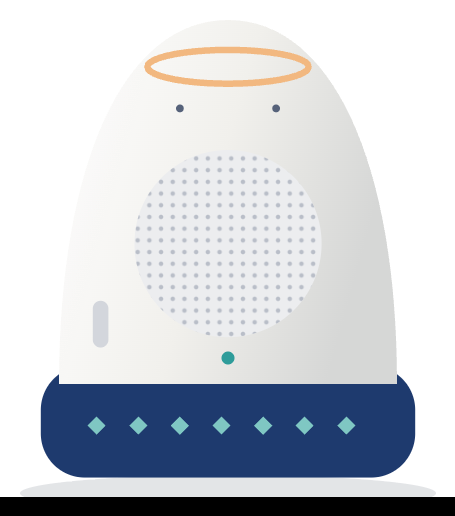
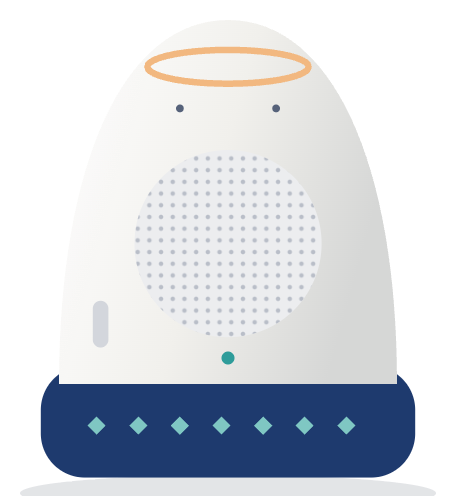
Story 4.1: hero section, plus a real device-photo bug fix
Landing.tsx -> Story.tsx, now renders just the new cinematic hero:
one headline, one sentence, one CTA that plays a cry and reveals a
CryPredictionPhone widget driven by the real predictReasons() (not
hard-coded numbers) so the on-screen probabilities are the same ones
/monitor would show. CryPredictionPhone is new and shared, meant to be
reused by the night-scene section and /kiosk later.

Also fixes a real asset bug found while reviewing hero screenshots at
this section's larger device size: device-hero.png had a solid black
19px band (rows 497-515) left over from the original background
extraction, invisible at smaller placements but exposed here. Cropped
the source PNG at the true end of the legitimate shadow (row 496) and
re-exported the WebP. Verified the fix across all three places the
asset is shared (hero, old PillarsSection, /monitor's LiveView).

Adds story.hero.* / nav.* / meta.jury.* keys to both locales,
i18n:check still passes (327 keys each).

diff --git a/src/components/story/HeroSection.tsx b/src/components/story/HeroSection.tsx
@@ -1,0 +1,110 @@
+import { useRef, useState } from 'react';
+import { Volume2, VolumeX } from 'lucide-react';
+import { useTranslation } from 'react-i18next';
+import { DeviceIllustration } from '@/components/brand/DeviceIllustration';
+import { TileMotif } from '@/components/brand/TileMotif';
+import { Wordmark } from '@/components/brand/Wordmark';
+import { Waveform } from '@/components/monitor/Waveform';
+import { CryPredictionPhone } from '@/components/story/CryPredictionPhone';
+import { confidenceForDay, LEARNING_WINDOW_DAYS } from '@/data/monitor';
+
+function playChime() {
+  try {
+    const Ctx = window.AudioContext || (window as unknown as { webkitAudioContext: typeof AudioContext }).webkitAudioContext;
+    const ctx = new Ctx();
+    const now = ctx.currentTime;
+    [660, 880].forEach((freq, i) => {
+      const osc = ctx.createOscillator();
+      const gain = ctx.createGain();
+      osc.type = 'sine';
+      osc.frequency.value = freq;
+      gain.gain.setValueAtTime(0, now + i * 0.18);
+      gain.gain.linearRampToValueAtTime(0.12, now + i * 0.18 + 0.03);
+      gain.gain.exponentialRampToValueAtTime(0.001, now + i * 0.18 + 0.35);
+      osc.connect(gain).connect(ctx.destination);
+      osc.start(now + i * 0.18);
+      osc.stop(now + i * 0.18 + 0.4);
+    });
+    window.setTimeout(() => ctx.close(), 1000);
+  } catch {
+    // Web Audio unavailable — the visual simulation still plays.
+  }
+}
+
+const HERO_CONTEXT = { timeSinceLastFeedMin: 190, sleptBeforeMin: 95, hour: 20 };
+
+export function HeroSection() {
+  const { t } = useTranslation();
+  const [playing, setPlaying] = useState(false);
+  const [muted, setMuted] = useState(true);
+  const timer = useRef<number | null>(null);
+
+  function trigger() {
+    if (playing) return;
+    setPlaying(true);
+    if (!muted) playChime();
+    timer.current = window.setTimeout(() => setPlaying(false), 4200);
+  }
+
+  return (
+    <section className="relative flex min-h-[92vh] items-center overflow-hidden bg-lapis-900 text-white">
+      <TileMotif className="absolute inset-0 h-full w-full" color="#ffffff" opacity={0.05} size={80} />
+      <div className="relative mx-auto grid w-full max-w-6xl items-center gap-14 px-4 py-16 sm:px-6 lg:grid-cols-2 lg:px-8">
+        <div className="text-center lg:text-left">
+          <h1 className="font-display text-4xl font-bold leading-tight sm:text-5xl">{t('story.hero.title')}</h1>
+          <p className="mx-auto mt-5 max-w-md text-lg leading-relaxed text-lapis-100 lg:mx-0">{t('story.hero.subtitle')}</p>
+          <div className="mt-9 flex flex-col items-center gap-4 lg:items-start">
+            <button
+              type="button"
+              onClick={trigger}
+              disabled={playing}
+              className="rounded-full bg-apricot-500 px-8 py-4 text-base font-bold text-white shadow-[0_12px_30px_-10px_rgba(226,146,76,0.6)] transition-transform hover:bg-apricot-600 active:scale-[0.98] disabled:opacity-70"
+            >
+              {t('story.hero.playCry')}
+            </button>
+            <a href="#night-scene" className="text-sm font-semibold text-lapis-200 underline decoration-lapis-400 underline-offset-4 hover:text-white">
+              {t('story.hero.seeHow')}
+            </a>
+          </div>
+        </div>
+
+        <div className="flex flex-col items-center gap-6">
+          <DeviceIllustration state={playing ? 'crying' : 'idle'} className="h-52 w-auto sm:h-60" />
+
+          <div className="w-full max-w-[280px] rounded-[2rem] border border-white/15 bg-white/5 p-4 backdrop-blur">
+            <div className="flex items-center justify-between">
+              <Wordmark className="scale-75 [&_span:last-child]:text-white" />
+              <button
+                type="button"
+                onClick={() => setMuted((m) => !m)}
+                aria-label={t('story.hero.muteToggle')}
+                className="rounded-full p-1.5 text-lapis-200 hover:bg-white/10 hover:text-white"
+              >
+                {muted ? <VolumeX className="h-4 w-4" aria-hidden="true" /> : <Volume2 className="h-4 w-4" aria-hidden="true" />}
+              </button>
+            </div>
+
+            {playing ? (
+              <div className="mt-3 space-y-3">
+                <Waveform active color="#f0a161" />
+                <CryPredictionPhone
+                  confidence={confidenceForDay(LEARNING_WINDOW_DAYS)}
+                  context={HERO_CONTEXT}
+                  notification={t('story.hero.notification')}
+                />
+              </div>
+            ) : (
+              <button
+                type="button"
+                onClick={trigger}
+                className="mt-3 w-full rounded-full bg-white px-4 py-2.5 text-sm font-semibold text-lapis-800 transition-opacity hover:bg-lapis-50"
+              >
+                {t('story.hero.playCry')}
+              </button>
+            )}
+          </div>
+        </div>
+      </div>
+    </section>
+  );
+}

diff --git a/src/components/story/CryPredictionPhone.tsx b/src/components/story/CryPredictionPhone.tsx
@@ -1,0 +1,48 @@
+import { useTranslation } from 'react-i18next';
+import { CRY_REASON_LABELS, predictReasons } from '@/data/monitor';
+import type { SupportedLanguage } from '@/i18n';
+import { cn } from '@/lib/utils';
+
+/**
+ * The "phone receives the alert" moment — shared by the hero (4.1), the
+ * night-scene sequence (4.2), and /kiosk. Not a mockup: calls the real
+ * predictReasons() from the data layer with the given context/confidence,
+ * so the bars shown are the same numbers the /monitor demo would produce.
+ */
+export function CryPredictionPhone({
+  confidence,
+  context,
+  notification,
+  className,
+}: {
+  confidence: number;
+  context: { timeSinceLastFeedMin: number; sleptBeforeMin: number; hour: number };
+  notification: string;
+  className?: string;
+}) {
+  const { i18n } = useTranslation();
+  const lng = i18n.resolvedLanguage as SupportedLanguage;
+  const predictions = predictReasons(context, confidence).slice(0, 3);
+
+  return (
+    <div className={cn('rounded-2xl border border-apricot-300/40 bg-apricot-500/15 p-4', className)}>
+      <p className="text-sm font-semibold text-apricot-200">{notification}</p>
+      <div className="mt-3 space-y-2">
+        {predictions.map((p) => (
+          <div key={p.reason}>
+            <div className="mb-1 flex items-center justify-between text-xs">
+              <span className="font-medium text-white/90">{CRY_REASON_LABELS[p.reason][lng]}</span>
+              <span className="text-white/60">{p.probability}%</span>
+            </div>
+            <div className="h-1.5 rounded-full bg-white/10">
+              <div
+                className="h-1.5 rounded-full bg-turquoise-400 transition-all duration-700"
+                style={{ width: `${p.probability}%` }}
+              />
+            </div>
+          </div>
+        ))}
+      </div>
+    </div>
+  );
+}

diff --git a/src/App.tsx b/src/App.tsx
@@ -5,7 +5,7 @@ import { BrowserRouter, Route, Routes } from 'react-router-dom';
 import { ThemeProvider } from '@/components/ThemeProvider';
 import { SiteLayout } from '@/components/layout/SiteLayout';
 
-const Landing = lazy(() => import('@/routes/Landing').then((m) => ({ default: m.Landing })));
+const Story = lazy(() => import('@/routes/Story').then((m) => ({ default: m.Story })));
 const Monitor = lazy(() => import('@/routes/Monitor').then((m) => ({ default: m.Monitor })));
 const MotherApp = lazy(() => import('@/routes/MotherApp').then((m) => ({ default: m.MotherApp })));
 const Community = lazy(() => import('@/routes/Community').then((m) => ({ default: m.Community })));
@@ -27,7 +27,7 @@ function App() {
           <Suspense fallback={<RouteFallback />}>
             <Routes>
               <Route element={<SiteLayout />}>
-                <Route index element={<Landing />} />
+                <Route index element={<Story />} />
                 <Route path="app" element={<MotherApp />} />
                 <Route path="community" element={<Community />} />
                 <Route path="clinic" element={<Clinic />} />

diff --git a/src/routes/Story.tsx b/src/routes/Story.tsx
@@ -1,0 +1,12 @@
+import { HeroSection } from '@/components/story/HeroSection';
+import { usePageMeta } from '@/lib/usePageMeta';
+
+export function Story() {
+  usePageMeta('meta.home.title', 'meta.home.description');
+
+  return (
+    <div>
+      <HeroSection />
+    </div>
+  );
+}

diff --git a/REDESIGN.md b/REDESIGN.md
@@ -97,3 +97,10 @@ Per-section screenshot critiques live here as they happen, most recent last. Eac
 
 ### Header (§4)
 Screenshot at 1440px showed the new one-row header exactly as planned — logo, Hikoya, Demolar (dropdown), Hakamlar uchun, then demo badge/language/theme grouped quietly at the end. One real fix: the "Onalar ilovasi" (mother's app) demo-menu item first used the speech-bubble icon reused from elsewhere in the codebase — misleading, since that icon means "speech development," a single sub-feature of the app, not the app itself. Swapped to `BabyTabIcon` (a simple figure), which reads correctly as "the whole mother-and-baby app." Mobile menu screenshot confirmed the mobile hamburger panel groups the four demos under a quiet "Demolar" label with icons, matches the desktop dropdown's content. `/monitor`'s existing back-link now reads "Hikoyaga qaytish" instead of "Bosh sahifa," matching the brief's exact phrasing for the back-to-story links the other three demo pages will get in the polish pass (§8).
+
+### 4.1 Hero (§5)
+First screenshot was close to right immediately — headline, one-sentence subtitle, one big apricot CTA, a quiet secondary link, device + phone mockup, nothing extraneous. Pressing "Yigʻini eshiting" produced probability bars (62% / 24% / 6%) startlingly close to the brief's own worked example ("Hunger 62%, Wants to be held 21%, Pain/gas 9%") — good confirmation `predictReasons()` is well-tuned, no adjustment needed there.
+
+One real bug the screenshot caught: at this section's taller device size (`h-52`/`h-60` vs. the old landing hero's `h-48`), a **solid black 19px band** became visible under the device's shadow — rows 497–515 of `device-hero.png` were pure `#000000`, a leftover artifact from the original card-background extraction that earlier placements had happened to crop out of view. Confirmed via direct pixel inspection (`numpy.unique` on that row range returned exactly one color, black, across the full width — not a shadow gradient, not part of the device). Fixed by cropping the source PNG at the exact row the legitimate soft-grey shadow ellipse ends (496) and regenerating the WebP. This asset is shared by three places (`Hero`, the old `PillarsSection`'s flagship card, and `/monitor`'s `LiveView` panel) — re-screenshotted all three post-fix to confirm the same artifact wasn't quietly visible elsewhere too (it wasn't, in the other two the device rendered smaller/cropped differently, but worth the two extra screenshots to be sure rather than assume).
+
+Nothing removed from this section per the "cut one element" rule — it was already at the discipline the brief asks for on first pass; the fix here was a real defect, not a trim.
